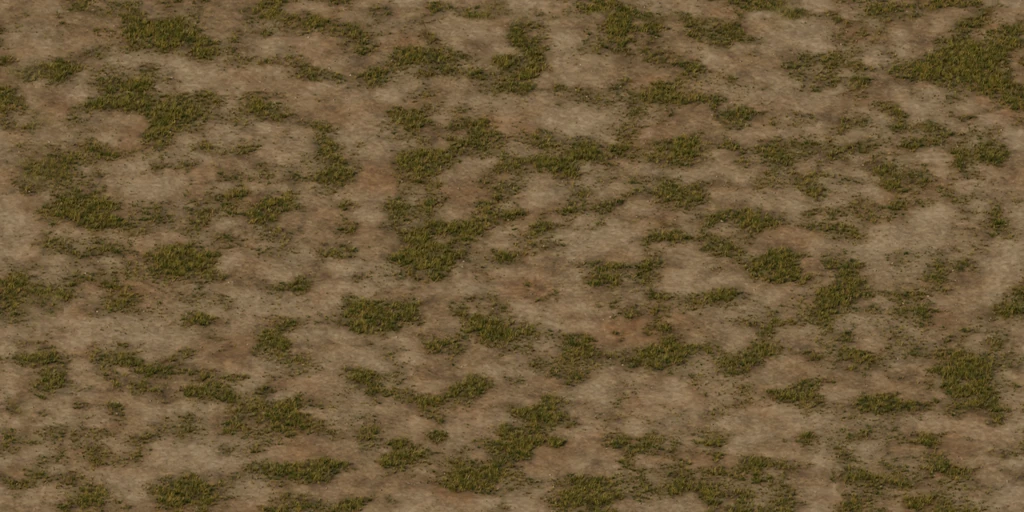
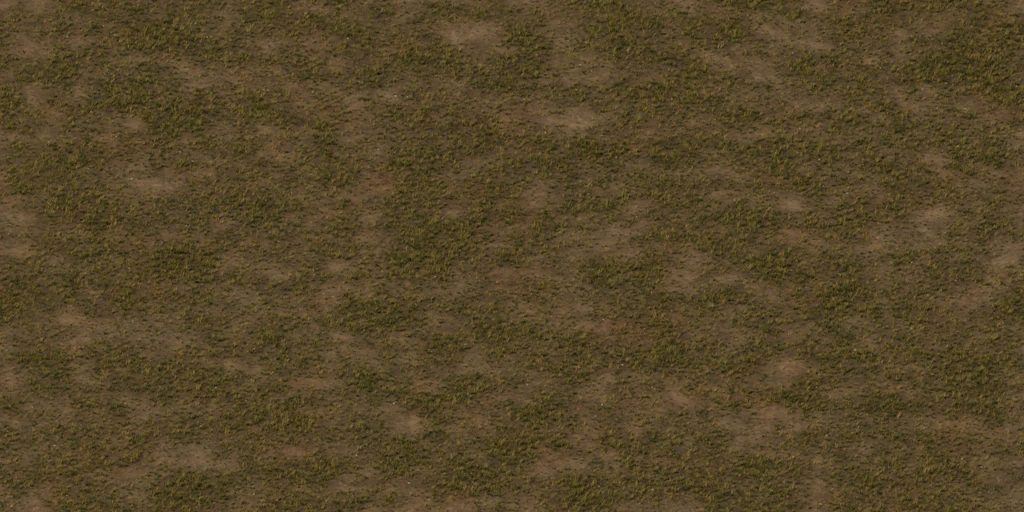
Calmer field ground and a packed-earth road tile
The field is now an even dry meadow (grass 0.85, patchiness 0.4) that stays
quiet at phone zoom; ground/road is bare packed earth with stones and no
direction, for the game to mask to the road's shape. The manifest gains
ground.road and names the game's 4 m tile.

Claude-Session: https://claude.ai/code/session_01RjoRvKCNSEX4rdXPqefPNy

diff --git a/art/pipeline/strelite_art/terrain.py b/art/pipeline/strelite_art/terrain.py
@@ -123,6 +123,7 @@ class Terrain:
     # -- scatter -----------------------------------------------------------
     stone_count, grass_count = 2600, 14000
     tuft_scale = 1.0
+    max_stone_on_tramp = 0.022      # trampled ground is kept clear of bigger stones
 
     def _keep(self, j, i):
         """Scatter filter: may an object stand on grid cell (j, i)?"""
@@ -154,7 +155,7 @@ class Terrain:
             r = rnd.choice([0.008, 0.01, 0.012, 0.012, 0.016, 0.02, 0.026, 0.035, 0.06]) \
                 * rnd.uniform(0.7, 1.4)
             j, ii = self._ij(x, y)
-            if (self.tramp[j, ii] > 0.5 and r > 0.022) or not self._keep(j, ii):
+            if (self.tramp[j, ii] > 0.5 and r > self.max_stone_on_tramp) or not self._keep(j, ii):
                 continue
             o = bpy.data.objects.new("stone", rnd.choice(variants))
             o["terrain"] = True
@@ -244,6 +245,33 @@ class Field(Terrain):
         self.grass_count = int(s * s * 15)
 
 
+class Road(Field):
+    """Packed earth for the enemies' road: bare, pale, compacted soil with gravel and
+    no grass. Nothing in it has a direction (no ruts, no tracks), because the game
+    cuts the road's shape out of this tile for any heading. The relief and the stones
+    are coarser than real packed earth so that the surface still has texture at the
+    game's 16 to 32 pixels per metre."""
+    max_stone_on_tramp = 1.0
+
+    def __init__(self, size_m, cell=0.05, seed=47):
+        self.size, self.seed = size_m, seed
+        self.n = n = int(size_m / cell) + 1
+        rng = np.random.default_rng(seed)
+        s = size_m
+        h = _fbm(n, rng, [(int(s / 6), 0.012), (int(s / 1.4), 0.012), (int(s / 0.55), 0.011),
+                          (int(s / 0.23), 0.004)])
+        self.ax = np.linspace(-s / 2, s / 2, n, dtype=np.float32)
+        worn = _fbm(n, rng, [(int(s / 2.5), 0.5), (int(s / 0.9), 0.35), (int(s / 0.35), 0.25)])
+        tramp = np.clip(0.78 + worn * 0.3, 0.4, 1.0)
+        damp = _fbm(n, rng, [(int(s / 3.5), 0.6), (int(s / 1.3), 0.45), (int(s / 0.5), 0.3)])
+        self.rut = np.clip(0.2 + damp * 0.42, 0.0, 0.65).astype(np.float32)  # darker, firmer spots
+        self.h = h.astype(np.float32)
+        self.tramp, self.cover = tramp.astype(np.float32), np.zeros_like(self.h)
+        self.rng = random.Random(seed)
+        self.stone_count = int(s * s * 9)
+        self.grass_count = 0
+
+
 class Patch(Terrain):
     """The piece of ground a tower sprite brings with it: trampled soil under the
     gun that fades out (alpha) into whatever ground the game draws around it.
@@ -258,7 +286,7 @@ class Patch(Terrain):
     stone_count, grass_count = 0, 0
     CATCHER_INSET = 1.0     # the shadow catcher starts this far inside r_solid
 
-    def __init__(self, r_solid=6.0, r_out=6.8, r_bare=4.3, cell=0.04, seed=11):
+    def __init__(self, r_solid=6.0, r_out=6.8, r_bare=4.3, cell=0.04, seed=11, ragged=0.9):
         self.r_solid, self.r_out = r_solid, r_out
         self.size = s = 2 * r_out + 0.4
         self.seed = seed
@@ -269,7 +297,7 @@ class Patch(Terrain):
         self.r = r = np.sqrt(X * X + Y * Y)
         h = _fbm(n, rng, [(int(s / 1.6), 0.012), (int(s / 0.45), 0.009), (int(s / 0.13), 0.005)])
         edge = _fbm(n, rng, [(int(s / 1.3), 0.5), (int(s / 0.4), 0.25), (int(s / 0.12), 0.1)])
-        edge = np.clip(edge, -0.9, 0.9)         # so the soil is solid inside r_solid - 0.9
+        edge = np.clip(edge, -ragged, ragged)   # so the soil is solid inside r_solid - ragged
         alpha = 1.0 - _smooth((r + edge - r_solid) / (r_out - r_solid))
         alpha = np.where(r > r_out, 0.0, alpha)
         tramp_n = _fbm(n, rng, [(int(s / 2.5), 0.5), (int(s / 0.8), 0.3)])
@@ -302,10 +330,16 @@ class Patch(Terrain):
         self.cover *= 1 - m
         return self
 
-    def pit(self, radius, depth, bank=0.3, bank_width=1.3):
-        """Dig a round pit; the spoil is thrown up as a bank around it."""
+    def pit(self, radius, depth, bank=0.3, bank_width=1.3, gap=None):
+        """Dig a round pit; the spoil is thrown up as a bank around it. gap = (deg0, deg1)
+        keeps a sector of the rim level (no bank), e.g. for the ammunition point."""
         inside = _smooth((radius - self.r) / 0.06)
         ring = np.exp(-(((self.r - radius - bank_width * 0.45) / (bank_width * 0.42)) ** 2))
+        if gap is not None:
+            ang = np.degrees(np.arctan2(self.Y, self.X))
+            mid, half = (gap[0] + gap[1]) / 2, (gap[1] - gap[0]) / 2
+            off = np.abs((ang - mid + 180.0) % 360.0 - 180.0)
+            ring = ring * _smooth((off - half) / 9.0)
         lump = _fbm(self.n, np.random.default_rng(self.seed + 1),
                     [(int(self.size / 0.9), 0.35), (int(self.size / 0.3), 0.2)])
         self.h = (self.h * (1 - inside) + (self.h * 0.5 - depth) * inside

diff --git a/art/pipeline/render_ground.py b/art/pipeline/render_ground.py
@@ -7,8 +7,9 @@ directions. The render covers a little more than one tile; the overlap is
 cross-faded along an irregular line, which hides the seam in soil and grass.
 
 Usage:
-    python3 render_ground.py --metres 64 --ppm 32 --samples 32 --dst ../../public/art
-Output: <dst>/ground/field@2x.webp, field@1x.webp and an entry in <dst>/towers.json
+    python3 render_ground.py                              # the field, 64 m
+    python3 render_ground.py --kind road --metres 32      # packed earth for the road
+Output: <dst>/ground/<name>@2x.webp, <name>@1x.webp and an entry in <dst>/towers.json
 """
 import argparse
 import json
@@ -27,7 +28,7 @@ def render(a, path):
     import bpy
 
     from strelite_art import scene as stage
-    from strelite_art.terrain import Field
+    from strelite_art.terrain import Field, Road
     width_m = a.metres + a.overlap
     w = int(round(width_m * a.ppm))
     scene = stage.build_stage("photoreal", w, a.samples, frame_m=width_m, ground="none",
@@ -35,8 +36,11 @@ def render(a, path):
     scene.render.resolution_x, scene.render.resolution_y = w, w // 2
     scene.render.film_transparent = False
     t = time.time()
-    Field(width_m * math.sqrt(2) + 4.0, seed=a.seed, grass=a.grass,
-          patchiness=a.patchiness).build(scene)
+    size = width_m * math.sqrt(2) + 4.0
+    if a.kind == "road":
+        Road(size, seed=a.seed).build(scene)
+    else:
+        Field(size, seed=a.seed, grass=a.grass, patchiness=a.patchiness).build(scene)
     print(f"[ground] terrain built in {time.time() - t:.0f}s", flush=True)
     scene.render.filepath = path
     t = time.time()
@@ -78,14 +82,17 @@ def main():
     ap.add_argument("--ppm", type=float, default=32.0)
     ap.add_argument("--samples", type=int, default=32)
     ap.add_argument("--seed", type=int, default=31)
-    ap.add_argument("--grass", type=float, default=0.6, help="0 bare soil .. 1 meadow")
-    ap.add_argument("--patchiness", type=float, default=1.3,
+    ap.add_argument("--kind", choices=["field", "road"], default="field")
+    ap.add_argument("--grass", type=float, default=0.85, help="0 bare soil .. 1 meadow")
+    ap.add_argument("--patchiness", type=float, default=0.4,
                     help="edge hardness between turf and bare soil; lower is calmer")
-    ap.add_argument("--name", default="field")
-    ap.add_argument("--raw", default=os.path.join(here, "..", "out", "ground_raw.png"))
+    ap.add_argument("--name", default=None, help="file and manifest name (default: --kind)")
+    ap.add_argument("--raw", default=None)
     ap.add_argument("--dst", default=os.path.join(here, "..", "..", "public", "art"))
     ap.add_argument("--reuse", action="store_true", help="skip the render, reuse --raw")
     a = ap.parse_args()
+    a.name = a.name or a.kind
+    a.raw = a.raw or os.path.join(here, "..", "out", f"ground_{a.name}_raw.png")
     if not a.reuse:
         os.makedirs(os.path.dirname(a.raw), exist_ok=True)
         render(a, a.raw)

diff --git a/art/pipeline/pack_atlas.py b/art/pipeline/pack_atlas.py
@@ -285,7 +285,7 @@ def main():
         "projection": "2:1 dimetric, orthographic, camera elevation 30 deg: one ground metre is "
                       "pxPerMetre wide along screen x and half of that along screen y",
         "pxPerMetre": {"@1x": ppm1, "@2x": ppm1 * 2},
-        "suggestedMetresPerTile": 12,
+        "suggestedMetresPerTile": 4,
         "directions": dirs,
         "aimZero": "frame 0 aims along grid +x (screen lower-right); frames advance with "
                    "atan2(dy, dx) in grid cells, i.e. clockwise on screen",
